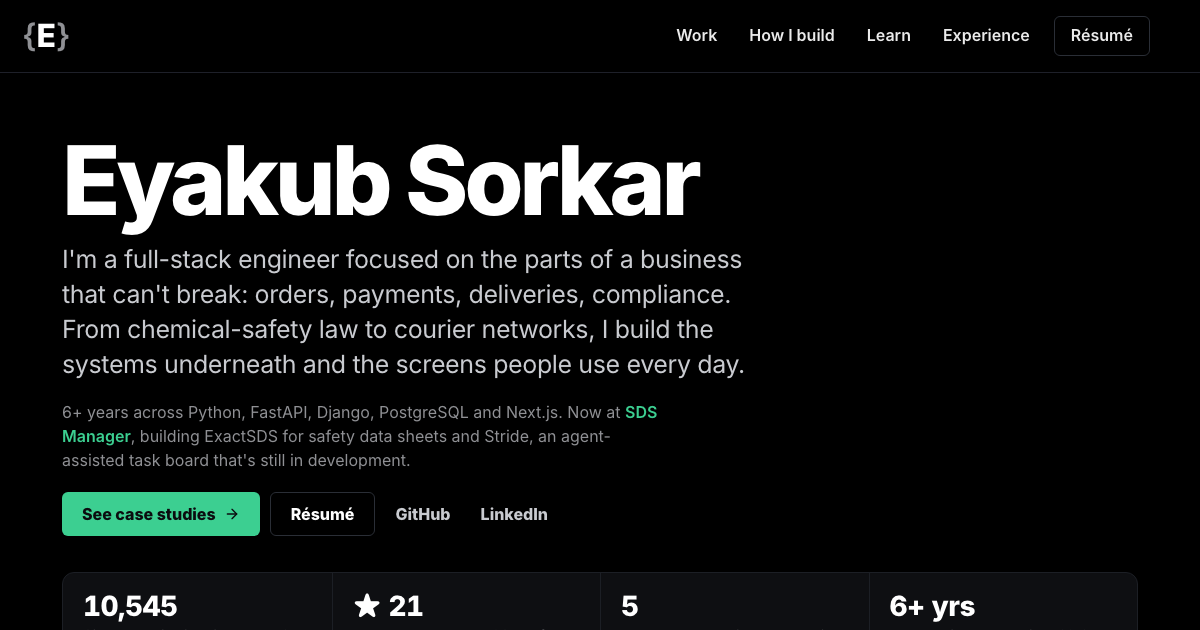
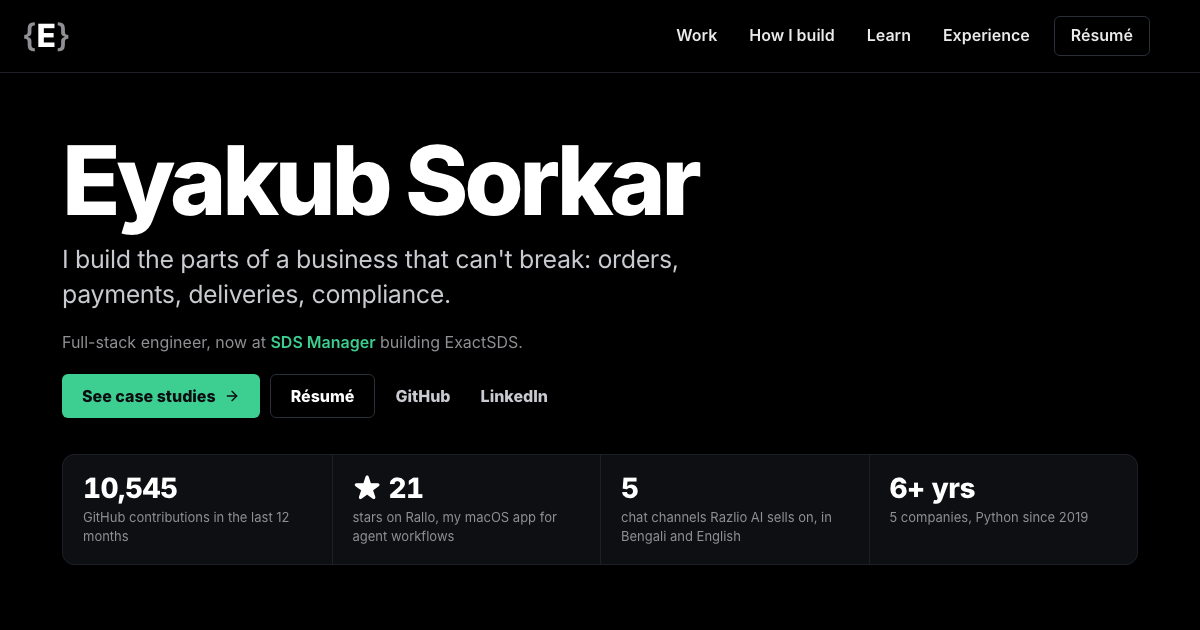
fix(home): shorten the hero to one line and a role
The hero was seven lines of text. It's now the one-line hook plus
"Full-stack engineer, now at SDS Manager building ExactSDS"; the stack
and years already show in the chips and the proof strip.

diff --git a/components/Introduction.js b/components/Introduction.js
@@ -26,16 +26,14 @@ export default function Introduction() {
           letterSpacing="-0.015em"
           sx={{ textWrap: 'pretty' }}
         >
-          I&apos;m a full-stack engineer focused on the parts of a business that can&apos;t break: orders, payments,
-          deliveries, compliance. From chemical-safety law to courier networks, I build the systems underneath and the
-          screens people use every day.
+          I build the parts of a business that can&apos;t break: orders, payments, deliveries, compliance.
         </Text>
         <Text maxW="60ch" color="textSecondary">
-          6+ years across Python, FastAPI, Django, PostgreSQL and Next.js. Now at{' '}
+          Full-stack engineer, now at{' '}
           <Link href="https://sdsmanager.com/" isExternal color="button1" fontWeight="600">
             SDS Manager
-          </Link>
-          , building ExactSDS for safety data sheets and Stride, an agent-assisted task board that&apos;s still in development.
+          </Link>{' '}
+          building ExactSDS.
         </Text>
       </Stack>
 
